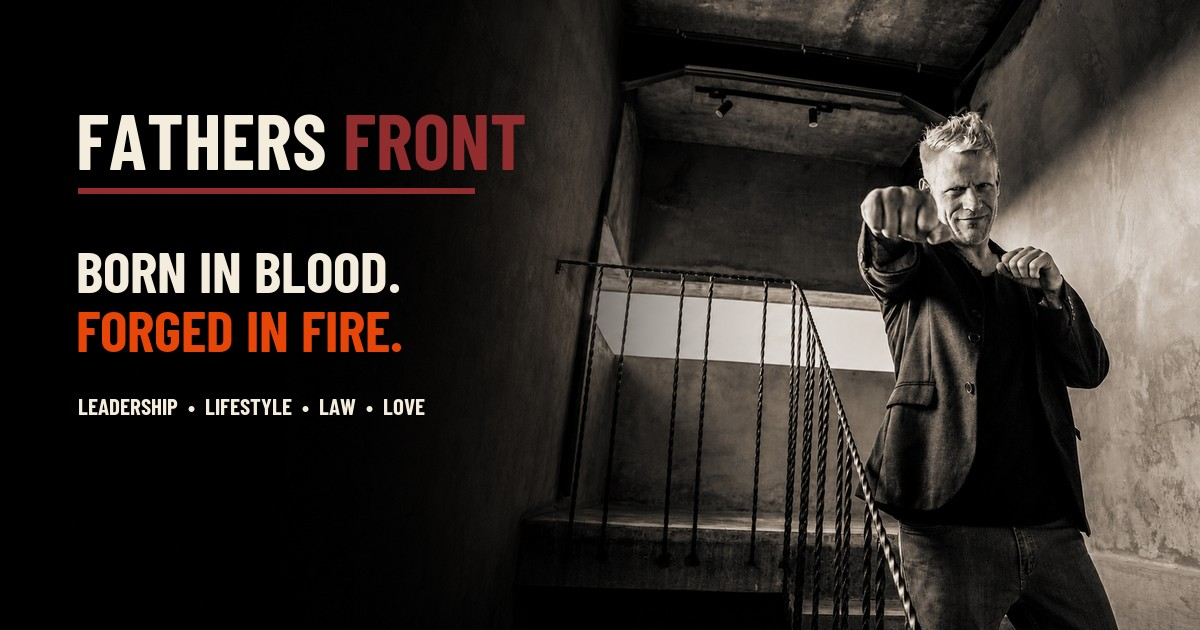
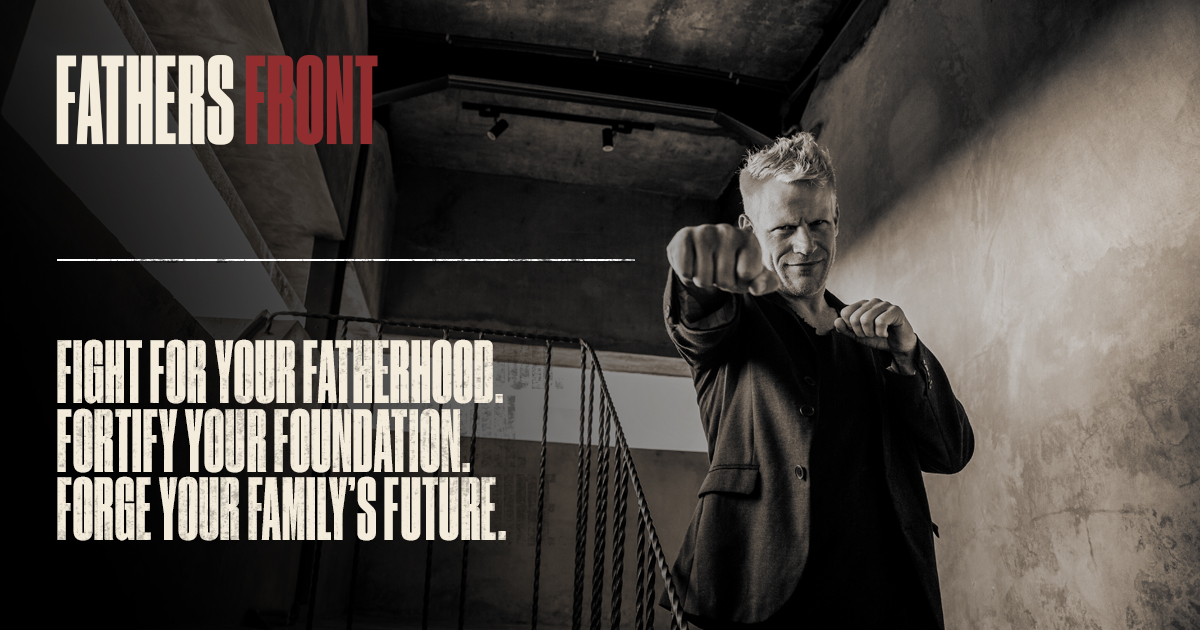
Optimize production image assets for V.78

diff --git a/app/about/page.tsx b/app/about/page.tsx
@@ -21,7 +21,7 @@ type StoryChapter = {
 
 const chapters: StoryChapter[] = [
   {
-    number:"01", caption:"Father at 19", title:"I Became a Father Before I Knew How to Be a Man", image:"about-steve-01-father-at-19.jpg", alt:"A young Steve Love holding his newborn son",
+    number:"01", caption:"Father at 19", title:"I Became a Father Before I Knew How to Be a Man", image:"about-steve-01-father-at-19.webp", alt:"A young Steve Love holding his newborn son",
     blocks:[
       {text:"I became a father at 19 after getting my high school girlfriend of three years pregnant."},
       {text:"I was still an Orange County punk rock kid."},
@@ -42,7 +42,7 @@ const chapters: StoryChapter[] = [
     ],
   },
   {
-    number:"02", caption:"The awakening", title:"The Moment Everything Changed", image:"about-steve-02-moment-everything-changed.jpg", alt:"Steve Love seated with two of his sons",
+    number:"02", caption:"The awakening", title:"The Moment Everything Changed", image:"about-steve-02-moment-everything-changed.webp", alt:"Steve Love seated with two of his sons",
     blocks:[
       {text:"In the middle of the worst personal crisis of my life, something broke open inside me."},
       {text:"One sentence came through clearly:"},
@@ -59,7 +59,7 @@ const chapters: StoryChapter[] = [
     ],
   },
   {
-    number:"03", caption:"Family court", title:"The First Time Through Family Court", image:"about-steve-03-first-family-court.jpg", alt:"Steve Love standing in front of a courthouse with tape across his mouth",
+    number:"03", caption:"Family court", title:"The First Time Through Family Court", image:"about-steve-03-first-family-court.webp", alt:"Steve Love standing in front of a courthouse with tape across his mouth",
     blocks:[
       {text:"I believed I had done everything a father was supposed to do."},
       {text:"I made six figures."},
@@ -80,7 +80,7 @@ const chapters: StoryChapter[] = [
     ],
   },
   {
-    number:"04", caption:"Bali", title:"Exile and Reconstruction", image:"about-steve-04-exile-reconstruction.jpg", alt:"Steve Love standing in front of a staircase in Bali",
+    number:"04", caption:"Bali", title:"Exile and Reconstruction", image:"about-steve-04-exile-reconstruction.webp", alt:"Steve Love standing in front of a staircase in Bali",
     blocks:[
       {text:"After the final hearing, I moved to Bali."},
       {text:"I had been a husband and father for my entire adult life."},
@@ -106,7 +106,7 @@ const chapters: StoryChapter[] = [
     ],
   },
   {
-    number:"05", caption:"A new beginning", title:"Another Chance at Fatherhood", image:"about-steve-05-another-chance-at-fatherhood.jpg", alt:"Steve Love and his pregnant partner together outdoors",
+    number:"05", caption:"A new beginning", title:"Another Chance at Fatherhood", image:"about-steve-05-another-chance-at-fatherhood.webp", alt:"Steve Love and his pregnant partner together outdoors",
     blocks:[
       {text:"After working with a relationship coach, I met a beautiful German woman."},
       {text:"We fell in love quickly."},
@@ -125,7 +125,7 @@ const chapters: StoryChapter[] = [
     ],
   },
   {
-    number:"06", caption:"The second fight", title:"The Second Time, I Learned to Lead", image:"about-steve-06-second-time-learned-to-lead.jpg", alt:"Steve Love with two of his sons outside the Travis County family courts facility",
+    number:"06", caption:"The second fight", title:"The Second Time, I Learned to Lead", image:"about-steve-06-second-time-learned-to-lead.webp", alt:"Steve Love with two of his sons outside the Travis County family courts facility",
     blocks:[
       {text:"The first time through family court, I depended on an attorney while knowing almost nothing about the battlefield."},
       {text:"The second time, I refused to remain a passenger in my own life."},
@@ -154,7 +154,7 @@ const chapters: StoryChapter[] = [
     ],
   },
   {
-    number:"07", caption:"The other side", title:"Who Am I on the Other Side of Impossible?", image:"about-steve-07-other-side-of-impossible.jpg", alt:"Steve Love standing outdoors after training",
+    number:"07", caption:"The other side", title:"Who Am I on the Other Side of Impossible?", image:"about-steve-07-other-side-of-impossible.webp", alt:"Steve Love standing outdoors after training",
     blocks:[
       {text:"The first time through family court, I left believing the courts favored mothers and there was nothing I could do about it."},
       {text:"The second time, I began asking a different question:"},
@@ -169,7 +169,7 @@ const chapters: StoryChapter[] = [
     ],
   },
   {
-    number:"08", caption:"The framework", title:"Why I Created Fathers Front", image:"about-steve-08-why-i-created-fathers-front.jpg", alt:"Steve Love holding his infant son Ori", fronts:true,
+    number:"08", caption:"The framework", title:"Why I Created Fathers Front", image:"about-steve-08-why-i-created-fathers-front.webp", alt:"Steve Love holding his infant son Ori", fronts:true,
     blocks:[
       {text:"Family court may be where the fight starts."},
       {text:"It does not stay there."},
@@ -209,6 +209,6 @@ export default function AboutPage() {
         {chapter.fronts && <div className="about-fronts">{fronts.map(([index,title,text]) => <article key={title}><span>{index}</span><h3>{title}</h3><p>{text}</p></article>)}</div>}
       </div>
     </div></section>)}
-    <section className="about-editorial-finale"><div className="about-editorial-finale-inner"><div className="about-editorial-copy"><p className="about-section-number">09</p><h2>This Is the Work</h2><Prose blocks={[{text:"My story is not about how much I survived."},{text:"It is about what each fight required me to become."},{text:"I am a father of four sons."},{text:"Everything I build begins there."}]} /><div className="about-book-line">My book <em>Stolen Sons</em> tells the story.<br /><em>Family Lawfare</em> is the legal strategy.<br /><br />Fathers Front is the framework for fathers to take command of the fight, rebuild what it has cost them, and forge the future that follows.</div><div className="about-cta-row"><Link className="button ember" href="/work-with-steve">Work With Steve</Link><Link className="button ink" href="/the-framework">Explore the Four Fronts</Link></div></div><Media image="about-steve-09-this-is-the-work.jpg" alt="Portrait of Steve Love seated on a staircase" left="The work" right="Leadership" /></div></section>
+    <section className="about-editorial-finale"><div className="about-editorial-finale-inner"><div className="about-editorial-copy"><p className="about-section-number">09</p><h2>This Is the Work</h2><Prose blocks={[{text:"My story is not about how much I survived."},{text:"It is about what each fight required me to become."},{text:"I am a father of four sons."},{text:"Everything I build begins there."}]} /><div className="about-book-line">My book <em>Stolen Sons</em> tells the story.<br /><em>Family Lawfare</em> is the legal strategy.<br /><br />Fathers Front is the framework for fathers to take command of the fight, rebuild what it has cost them, and forge the future that follows.</div><div className="about-cta-row"><Link className="button ember" href="/work-with-steve">Work With Steve</Link><Link className="button ink" href="/the-framework">Explore the Four Fronts</Link></div></div><Media image="about-steve-09-this-is-the-work.webp" alt="Portrait of Steve Love seated on a staircase" left="The work" right="Leadership" /></div></section>
   </div><Footer /></main>;
 }

diff --git a/app/[slug]/page.tsx b/app/[slug]/page.tsx
@@ -15,7 +15,7 @@ export function generateStaticParams() {
 }
 
 function PageContent({ type }: { type: string }) {
-  if (type === "books") return <div className="inner-grid books-list"><article><img src="/assets/stolen-sons.png" alt="Stolen Sons" /><div><span>Memoir</span><h2>Stolen Sons</h2><p>A father erased. A son taken. A fight not finished.</p><Link className="button ink" href="/stolen-sons">Explore the book</Link></div></article><article><img src="/assets/family-lawfare.png" alt="Family Lawfare" /><div><span>Field guide</span><h2>Family Lawfare</h2><p>Protect your bloodline, rights, and future when the courts enter your family.</p><Link className="button ink" href="/family-lawfare">Explore the book</Link></div></article></div>;
+  if (type === "books") return <div className="inner-grid books-list"><article><img src="/assets/stolen-sons-cover.webp" alt="Stolen Sons" /><div><span>Memoir</span><h2>Stolen Sons</h2><p>A father erased. A son taken. A fight not finished.</p><Link className="button ink" href="/stolen-sons">Explore the book</Link></div></article><article><img src="/assets/family-lawfare-cover.webp" alt="Family Lawfare" /><div><span>Field guide</span><h2>Family Lawfare</h2><p>Protect your bloodline, rights, and future when the courts enter your family.</p><Link className="button ink" href="/family-lawfare">Explore the book</Link></div></article></div>;
   if (type === "work") return <div className="work-with-page">
     <section className="work-opening"><p className="section-kicker">The work</p><h2>Every battle crosses<br /><em>more than one front.</em></h2><p>We work across Leadership, Lifestyle, Law, and Love because a decision made on one front creates consequences across the others.</p></section>
     <section className="transformation"><div className="transformation-head"><p className="section-kicker">The four-front transformation</p><div><span>Before</span><span>After</span></div></div>
@@ -29,7 +29,7 @@ function PageContent({ type }: { type: string }) {
   </div>;
   if (type === "speaking") return <div className="speaking-page speaking-page-rebuilt">
     <div className="speaking-lead">
-      <img src="/assets/steve-speaking.jpg" alt="Steve Love speaking to a live audience" />
+      <img src="/assets/steve-speaking.webp" alt="Steve Love speaking to a live audience" />
       <div><h1>Want Steve to speak to your audience or community?</h1></div>
     </div>
     <div className="work-simple-column work-page-body speaking-body">
@@ -79,15 +79,15 @@ function PageContent({ type }: { type: string }) {
 }
 
 const journey = [
-  { number:"01", era:"Age 19", title:"The first calling", text:"I became a father before I had become a man. I did not understand everything fatherhood would demand of me—but from that moment forward, my life was no longer mine alone.", image:"/assets/steve-sons.jpg", align:"right" },
+  { number:"01", era:"Age 19", title:"The first calling", text:"I became a father before I had become a man. I did not understand everything fatherhood would demand of me—but from that moment forward, my life was no longer mine alone.", image:"/assets/steve-sons.webp", align:"right" },
   { number:"02", era:"Fifteen years", title:"The divided man", text:"From the outside, I had built the life I was supposed to want: a wife, children, a home, and a six-figure career. Underneath it, addiction followed me for fifteen years. Achievement could not fill what I refused to face.", align:"left" },
   { number:"03", era:"The awakening", title:"The life behind the life", text:"Eventually, the old identity broke. Recovery was not the finish line. It was the first honest step toward becoming the father my sons deserved.", image:"/assets/steve-hero.jpg", align:"right" },
-  { number:"04", era:"The wider world", title:"Freedom, built", text:"I became present with my sons, traveled the world, built businesses, and discovered that freedom is not escape. It is the capacity to create a life you can stand inside without needing to run from it.", image:"/assets/steve-speaking.jpg", align:"left" },
+  { number:"04", era:"The wider world", title:"Freedom, built", text:"I became present with my sons, traveled the world, built businesses, and discovered that freedom is not escape. It is the capacity to create a life you can stand inside without needing to run from it.", image:"/assets/steve-speaking.webp", align:"left" },
   { number:"05", era:"A new beginning", title:"Love returned", text:"I started a new family. There was a beautiful woman, a home, and a new son. For a moment, everything I had fought to become seemed to have carried me into the life I had imagined.", align:"right" },
   { number:"06", era:"The abduction", title:"The world split open", text:"Then my son was taken across an ocean. In a single act, fatherhood became an international legal battle. The system expected distance, exhaustion, and delay to do what force could not: make me disappear.", align:"left" },
-  { number:"07", era:"Two years · Two countries", title:"Learning to litigate", text:"I learned the case down to the smallest fact and fought through courts in Texas and Germany. Every filing, hearing, allegation, and setback became part of a flawless record built around one principle: the best way to beat a lie is with the truth.", image:"/assets/fathers-front-home-hero.jpg", align:"right" },
+  { number:"07", era:"Two years · Two countries", title:"Learning to litigate", text:"I learned the case down to the smallest fact and fought through courts in Texas and Germany. Every filing, hearing, allegation, and setback became part of a flawless record built around one principle: the best way to beat a lie is with the truth.", image:"/assets/fathers-front-home-hero.webp", align:"right" },
   { number:"08", era:"Germany", title:"I went to get my son", text:"When the court gave me sole custody, I crossed the ocean to enforce the judgment and bring him home. There was no entourage—just a father who had promised his son he would never stop coming.", align:"left" },
-  { number:"09", era:"The return", title:"What comes after the fight", text:"Now it is my son and me, rebuilding daily life while I build the work that came out of the fire. Fathers Front exists for men who still have something to protect, something to lead, and something worth becoming.", image:"/assets/steve-sons.jpg", align:"right" },
+  { number:"09", era:"The return", title:"What comes after the fight", text:"Now it is my son and me, rebuilding daily life while I build the work that came out of the fire. Fathers Front exists for men who still have something to protect, something to lead, and something worth becoming.", image:"/assets/steve-sons.webp", align:"right" },
 ];
 
 function AboutTimeline() {

diff --git a/app/globals.css b/app/globals.css
@@ -88,7 +88,7 @@ button { font:inherit; }
 .menu-toggle.is-open span:nth-child(3) { transform:translateY(-7px) rotate(-45deg); }
 
 .hero { min-height:780px; height:100vh; position:relative; overflow:hidden; display:flex; align-items:center; background:var(--ink); }
-.hero-photo { position:absolute; inset:0; background:url('/assets/fathers-front-home-hero.jpg') center/cover no-repeat; image-rendering:auto; }
+.hero-photo { position:absolute; inset:0; background:url('/assets/fathers-front-home-hero.webp') center/cover no-repeat; image-rendering:auto; }
 .hero-shade { position:absolute; inset:0; background:linear-gradient(90deg,var(--ink) 0%,rgba(23,20,18,.92) 34%,rgba(23,20,18,.42) 62%,rgba(23,20,18,.08) 100%); }
 .hero-copy { position:relative; z-index:2; padding-top:88px; }
 .eyebrow,.section-kicker { font:600 13px/1 var(--display); letter-spacing:.24em; text-transform:uppercase; }
@@ -96,10 +96,10 @@ button { font:inherit; }
 .eyebrow span { width:34px; height:2px; background:var(--ember); }
 h1,h2,h3 { margin:0; font-family:var(--font-heading); text-transform:uppercase; letter-spacing:-.025em; }
 .hero-rule { width:min(760px,61vw); height:2.5px; position:relative; margin:0 0 42px 0; background:#e9dec8; opacity:.82; overflow:hidden; }
-.hero-rule::after { content:""; position:absolute; inset:0; background:url('/assets/headline-watercolor-1024.png') center/460px auto; opacity:.50; pointer-events:none; }
+.hero-rule::after { content:""; position:absolute; inset:0; background:url('/assets/headline-watercolor-optimized.png') center/460px auto; opacity:.50; pointer-events:none; }
 .hero h1 { max-width:988px; margin:0 0 33px; font-family:var(--font-heading); font-size:clamp(25.67px,2.947vw,47.33px); font-weight:900; line-height:.9; letter-spacing:-.025em; }
 .hero h1 span { display:block; position:relative; width:max-content; color:#e9dec8; white-space:nowrap; transform-origin:left center; }
-.hero h1 span::after { content:attr(data-text); position:absolute; inset:0; color:transparent; background:url('/assets/headline-watercolor-1024.png') center/900px auto; -webkit-background-clip:text; background-clip:text; opacity:.30; pointer-events:none; }
+.hero h1 span::after { content:attr(data-text); position:absolute; inset:0; color:transparent; background:url('/assets/headline-watercolor-optimized.png') center/900px auto; -webkit-background-clip:text; background-clip:text; opacity:.30; pointer-events:none; }
 h1 em,h2 em { font-family:var(--font-accent); color:var(--ember); text-transform:none; font-weight:600; }
 .hero-sub { font:600 23px var(--display); letter-spacing:.18em; text-transform:uppercase; }
 .hero-sub b { color:var(--cream); font-style:normal; font-weight:600; }
@@ -213,7 +213,7 @@ h1 em,h2 em { font-family:var(--font-accent); color:var(--ember); text-transform
 .resource-grid>a { transition:background .2s ease,color .2s ease; }
 .resource-grid>a:hover { color:#fff; background:var(--red); }
 .resource-grid>a:hover span { color:#f1c9bc; }
-.legacy-photo { position:relative; min-height:700px; background:url('/assets/steve-sons.jpg') center 28%/cover no-repeat; display:flex; align-items:flex-end; padding:100px 0; }
+.legacy-photo { position:relative; min-height:700px; background:url('/assets/steve-sons.webp') center 28%/cover no-repeat; display:flex; align-items:flex-end; padding:100px 0; }
 .legacy-overlay { position:absolute; inset:0; background:linear-gradient(90deg,#120f0dd9 0%,#120f0d8f 52%,transparent),linear-gradient(0deg,#120f0ddd,transparent 60%); }
 .legacy-copy { position:relative; }
 .legacy-copy h2 { max-width:800px; margin:24px 0 36px; }
@@ -489,7 +489,7 @@ p.speaking-accent { margin:22px 0; font-size:clamp(25px,3.2vw,38px); }
 .work-v2 h1,.work-v2 h2,.work-v2 h3 { text-transform:uppercase; }
 .work-v2-hero { position:relative; min-height:730px; color:var(--cream); overflow:hidden; display:flex; align-items:end; }
 .work-v2-hero-image,.work-v2-hero-shade { position:absolute; inset:0; }
-.work-v2-hero-image { background:url('/assets/fathers-front-home-hero.jpg') 70% center/cover no-repeat; filter:grayscale(1) contrast(1.1); }
+.work-v2-hero-image { background:url('/assets/fathers-front-home-hero.webp') 70% center/cover no-repeat; filter:grayscale(1) contrast(1.1); }
 .work-v2-hero-shade { background:linear-gradient(90deg,rgba(18,15,13,.96) 0%,rgba(18,15,13,.82) 43%,rgba(18,15,13,.2) 76%),linear-gradient(0deg,rgba(18,15,13,.84),transparent 60%); }
 .work-v2-hero-grid { position:relative; z-index:1; width:100%; display:grid; grid-template-columns:1.18fr .82fr; gap:70px; align-items:end; padding:100px 0; }
 .work-v2 .section-kicker { color:var(--red); border-color:var(--red); }

diff --git a/app/articles/article-styles.module.css b/app/articles/article-styles.module.css
@@ -5,7 +5,7 @@
 /* 04: restrained literary */.v04 .articleHero{background:#201b18;padding-bottom:150px}.v04 .articleHero h1{font-family:Georgia,serif;text-transform:none;font-size:clamp(68px,8vw,122px);line-height:.98;max-width:900px}.v04 .articleBody{grid-template-columns:100px minmax(0,690px);gap:65px}.v04 .story h2{font-family:Georgia,serif;text-transform:none;font-size:43px}
 /* 05: red editorial line */.v05 .articleHero{background:var(--accent);color:#fff}.v05 .articleHero h1{max-width:900px}.v05 .deck{color:#f0dcd5}.v05 .issue{color:#fff}.v05 .byline{border-color:#ffffff66}.v05 .story h2{border-top:6px solid var(--accent);padding-top:15px}
 /* 06: field manual */.v06{--paper:#cbc2ae}.v06 .articleHero{background:#27251f}.v06 .articleHero h1{border-left:18px solid var(--ember);padding-left:30px}.v06 .articleBody{grid-template-columns:230px minmax(0,700px)}.v06 .rail{border:2px solid #171412;padding:25px;height:max-content;position:sticky;top:150px}.v06 .story section{border-top:2px solid #171412;padding-top:30px}
-/* 07: archival record */.v07 .articleHero{background:linear-gradient(#0009,#0009),url('/assets/fathers-front-home-hero.jpg') center/cover}.v07 .heroInner{max-width:950px;margin-left:max(0px,calc((100% - 1180px)/2))}.v07 .articleHero h1{text-shadow:0 4px 30px #000}.v07 .articleBody{border-inline:1px solid #aa9e8e}.v07 .story section{padding-bottom:50px;border-bottom:1px solid #aaa090}
+/* 07: archival record */.v07 .articleHero{background:linear-gradient(#0009,#0009),url('/assets/fathers-front-home-hero.webp') center/cover}.v07 .heroInner{max-width:950px;margin-left:max(0px,calc((100% - 1180px)/2))}.v07 .articleHero h1{text-shadow:0 4px 30px #000}.v07 .articleBody{border-inline:1px solid #aa9e8e}.v07 .story section{padding-bottom:50px;border-bottom:1px solid #aaa090}
 /* 08: asymmetric verdict */.v08 .articleHero{background:linear-gradient(90deg,#171412 0 63%,var(--accent) 63%)}.v08 .articleHero h1{max-width:760px}.v08 .deck{margin-left:48%;max-width:550px}.v08 .articleBody{grid-template-columns:minmax(0,740px) 180px}.v08 .rail{grid-column:2;grid-row:1}.v08 .story{grid-column:1;grid-row:1}
 /* 09: dispatch */.v09 .articleHero{background:#e9dec8;color:#171412}.v09 .heroInner{border-left:3px solid var(--accent);padding-left:42px}.v09 .issue{color:var(--accent)}.v09 .deck{color:#5d554d}.v09 .byline{border-color:#9b8e7d}.v09 .story h2{color:var(--accent)}
 /* 10: evidence wall */.v10{--paper:#171412;--char:#e9dec8}.v10 .articleHero{background:#171412;border-bottom:1px solid #50473f}.v10 .articleBody{grid-template-columns:180px minmax(0,760px);background:#171412}.v10 .story{color:#d5c8b5}.v10 .story section{padding:38px;border:1px solid #4f473f;transform:rotate(-.35deg)}.v10 .story section:nth-child(even){transform:rotate(.35deg)}.v10 .story blockquote{color:#e9dec8;border-color:#5b5147}.v10 .disclaimer{border-color:#554b42}.v10 .rail{color:#8e8478}

diff --git a/app/stolen-sons/page.tsx b/app/stolen-sons/page.tsx
@@ -1,3 +1,3 @@
 import { ProductDetail } from "../components/ProductDetail";
 
-export default function StolenSonsPage(){return <ProductDetail type="Book · Memoir" status="Pre-order opening soon" title={<>Stolen<br />Sons</>} deck="A father erased. A son taken. A fight not finished." description="A memoir of love, exile, international family court, and a father who refused to disappear when distance and the system expected him to surrender." cta="Get notified when pre-orders open" ctaHref="#" image="/assets/stolen-sons.png" imageAlt="Stolen Sons book cover" details={[{number:"01",title:"The story",copy:"After his young son was taken across an ocean, Steve Love entered a two-year legal fight spanning Texas and Germany. What followed was not merely a custody case. It was a confrontation with fatherhood, identity, power, and the price of keeping a promise."},{number:"02",title:"For the father who will not disappear",copy:"This book is for men carrying grief, responsibility, and battles few people can see—and for anyone who wants to understand what happens when a father is forced to prove that his presence matters."}]} nextHref="/family-lawfare" nextLabel="Next book: Family Lawfare" />}
+export default function StolenSonsPage(){return <ProductDetail type="Book · Memoir" status="Pre-order opening soon" title={<>Stolen<br />Sons</>} deck="A father erased. A son taken. A fight not finished." description="A memoir of love, exile, international family court, and a father who refused to disappear when distance and the system expected him to surrender." cta="Get notified when pre-orders open" ctaHref="#" image="/assets/stolen-sons-cover.webp" imageAlt="Stolen Sons book cover" details={[{number:"01",title:"The story",copy:"After his young son was taken across an ocean, Steve Love entered a two-year legal fight spanning Texas and Germany. What followed was not merely a custody case. It was a confrontation with fatherhood, identity, power, and the price of keeping a promise."},{number:"02",title:"For the father who will not disappear",copy:"This book is for men carrying grief, responsibility, and battles few people can see—and for anyone who wants to understand what happens when a father is forced to prove that his presence matters."}]} nextHref="/family-lawfare" nextLabel="Next book: Family Lawfare" />}

diff --git a/app/family-lawfare/page.tsx b/app/family-lawfare/page.tsx
@@ -1,3 +1,3 @@
 import { ProductDetail } from "../components/ProductDetail";
 
-export default function FamilyLawfarePage(){return <ProductDetail type="Book · Field Guide" status="Pre-order opening soon" title={<>Family<br />Lawfare</>} deck="Protect your bloodline, your rights, and your future when the courts enter your family." description="A practical field guide for fathers navigating custody, child support, allegations, high-conflict litigation, and the systems surrounding family court." cta="Get notified when pre-orders open" ctaHref="https://c6ab-me.systeme.io/" image="/assets/family-lawfare.png" imageAlt="Family Lawfare book cover" details={[{number:"01",title:"Fight smart",copy:"Understand the difference between emotional truth and admissible proof. Build a disciplined record, communicate strategically, and stop allowing the conflict to choose your behavior."},{number:"02",title:"Protect the bloodline",copy:"The objective is larger than winning an argument. It is preserving your relationship with your children, your capacity to lead, and the assets and opportunities that make rebuilding possible."}]} nextHref="/stolen-sons" nextLabel="Read about Stolen Sons" />}
+export default function FamilyLawfarePage(){return <ProductDetail type="Book · Field Guide" status="Pre-order opening soon" title={<>Family<br />Lawfare</>} deck="Protect your bloodline, your rights, and your future when the courts enter your family." description="A practical field guide for fathers navigating custody, child support, allegations, high-conflict litigation, and the systems surrounding family court." cta="Get notified when pre-orders open" ctaHref="https://c6ab-me.systeme.io/" image="/assets/family-lawfare-cover.webp" imageAlt="Family Lawfare book cover" details={[{number:"01",title:"Fight smart",copy:"Understand the difference between emotional truth and admissible proof. Build a disciplined record, communicate strategically, and stop allowing the conflict to choose your behavior."},{number:"02",title:"Protect the bloodline",copy:"The objective is larger than winning an argument. It is preserving your relationship with your children, your capacity to lead, and the assets and opportunities that make rebuilding possible."}]} nextHref="/stolen-sons" nextLabel="Read about Stolen Sons" />}

diff --git a/app/components/Header.tsx b/app/components/Header.tsx
@@ -12,7 +12,7 @@ export function Header() {
           <span /><span /><span />
         </button>
         <nav className={open ? "nav open" : "nav"} aria-label="Primary navigation">
-          <div className="mobile-menu-heading"><span>Fathers Front</span><b>Menu · V.77</b></div>
+          <div className="mobile-menu-heading"><span>Fathers Front</span><b>Menu · V.78</b></div>
           <Link href="/">Home</Link><Link href="/books">Books</Link><Link href="/articles">Articles</Link>
           <Link href="/speaking">Speaking</Link>
           <div className="nav-dropdown">
@@ -24,7 +24,7 @@ export function Header() {
           </div>
           <Link className="nav-cta" href="/work-with-steve">Work With Steve</Link>
         </nav>
-        <span className="site-version" aria-label="Site version 77">V.77</span>
+        <span className="site-version" aria-label="Site version 78">V.78</span>
       </div>
     </header>
   );

diff --git a/app/components/BookStack.tsx b/app/components/BookStack.tsx
@@ -37,8 +37,8 @@ export function BookStack() {
       onMouseEnter={() => setFamilyFront(true)}
       onMouseLeave={() => setFamilyFront(false)}
     >
-      <figure className="book-card book-back"><img src="/assets/family-lawfare.png" alt="Family Lawfare book cover" /></figure>
-      <figure className="book-card book-front"><img src="/assets/stolen-sons.png" alt="Stolen Sons book cover" /></figure>
+      <figure className="book-card book-back"><img src="/assets/family-lawfare-cover.webp" alt="Family Lawfare book cover" /></figure>
+      <figure className="book-card book-front"><img src="/assets/stolen-sons-cover.webp" alt="Stolen Sons book cover" /></figure>
       <span className="book-switch-note">Click or tap to switch</span>
     </div>
   );

diff --git a/public/template.html b/public/template.html
@@ -54,7 +54,7 @@
   </style>
 </head>
 <body>
-  <header class="masthead"><div class="shell"><a class="brand" href="/">Fathers <b>Front</b></a><span class="version">ARTICLE TEMPLATE · V.77</span></div></header>
+  <header class="masthead"><div class="shell"><a class="brand" href="/">Fathers <b>Front</b></a><span class="version">ARTICLE TEMPLATE · V.78</span></div></header>
   <main>
     <header class="hero"><div class="shell">
       <p class="issue">FIELD NOTE <b>/ TEMPLATE</b> · [LAW / LOVE / LEADERSHIP / LIFESTYLE]</p>
